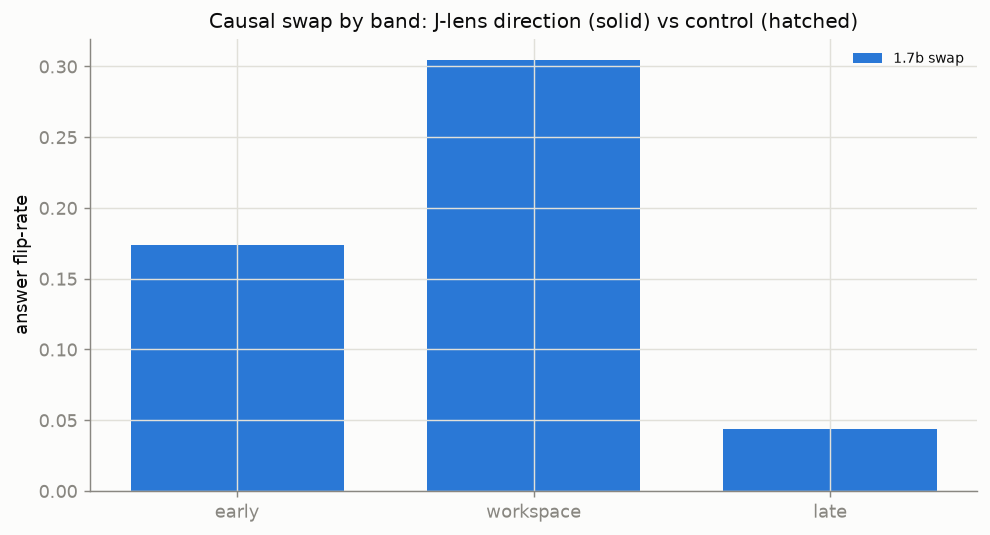
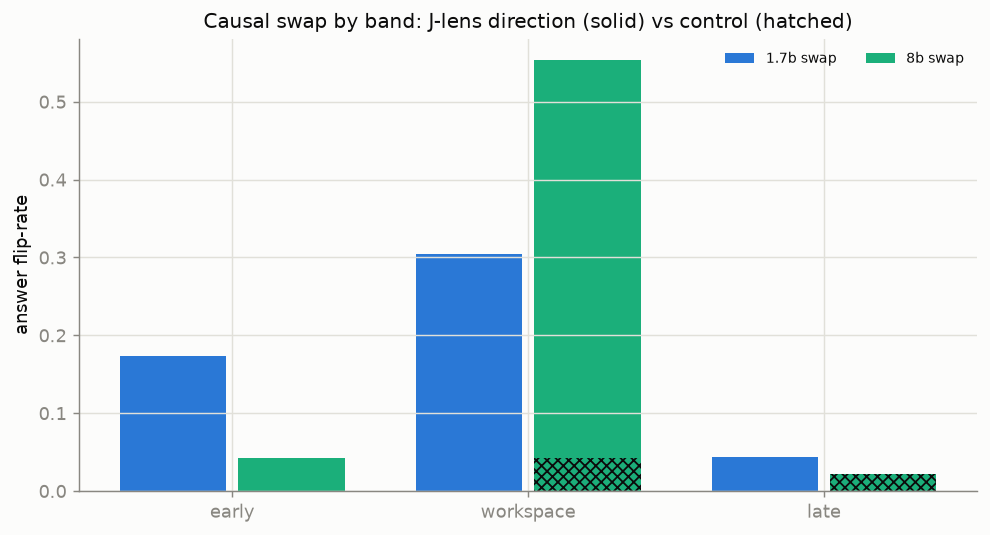
Deployed 3f668cf with MkDocs version: 1.6.1

diff --git a/results-scale/index.html b/results-scale/index.html
@@ -409,6 +409,17 @@
   
 </li>
       
+        <li class="md-nav__item">
+  <a href="#takeaway-so-far" class="md-nav__link">
+    <span class="md-ellipsis">
+      
+        Takeaway so far
+      
+    </span>
+  </a>
+  
+</li>
+      
     </ul>
   
 </nav>
@@ -517,37 +528,93 @@
 
 <h1 id="results-scale">Results — scale</h1>
 <p>Does the J-space exist at every scale, or emerge and sharpen with size? We fit
-the identical J-lens on Qwen3 1.7B, 8B, and 32B and compare per-layer metrics
-(reindexed to a 0–100 depth scale) and the paper's pass@k lens-quality eval.</p>
+the identical J-lens on Qwen3 1.7B and 8B (32B in progress) and compare per-layer
+metrics (reindexed to a 0–100 depth scale) and the paper's pass@k lens-quality
+eval.</p>
 <p><img alt="J-space metrics vs depth, across model scale" src="../figs/scale_metrics.png" /></p>
 <h2 id="per-layer-metrics">Per-layer metrics</h2>
-<p>The workspace band (38–92% depth) is shaded. Reading the 1.7B curves:</p>
+<p>The workspace band (38–92% depth) is shaded. Blue = 1.7B, green = 8B.</p>
 <ul>
 <li><strong><code>read_var_frac</code></strong> — the J-lens read directions hold a small, <em>shrinking</em>
-  fraction of residual variance (~5% early → ~1.8% deep), consistent with the
-  paper's "&lt;10%" J-space.</li>
-<li><strong><code>top1_autocorr</code></strong> — top-1 readout persistence <strong>peaks inside the workspace
-  band</strong>, the signature of content that is held across positions.</li>
+  fraction of residual variance, and it <strong>shrinks further with scale</strong>: the 8B
+  curve sits clearly below 1.7B (workspace mean 0.014 vs 0.027). The J-space
+  becomes more concentrated / specialized as the model grows.</li>
+<li><strong><code>top1_autocorr</code></strong> — readout persistence <strong>peaks inside the workspace band</strong>
+  at both scales, the signature of content held across positions.</li>
 <li><strong><code>jlens_top1</code></strong> — next-token accuracy stays near zero until the motor regime,
-  then rises steeply toward the output.</li>
-<li><strong><code>eff_dim</code></strong> rises with depth (low-rank transport early, near-full-rank late);
-  <strong><code>kurtosis</code></strong> dips through the mid layers.</li>
+  then rises steeply toward the output, at both scales.</li>
+<li><strong><code>eff_dim</code></strong> scales with model width (≈0.5·<span class="arithmatex">\(d_\text{model}\)</span> at both sizes).</li>
 </ul>
 <h2 id="lens-quality-passk">Lens quality (pass@k)</h2>
 <p><img alt="Lens quality: J-lens vs logit-lens" src="../figs/lenseval.png" /></p>
-<p>pass@k = fraction of hidden two-hop bridge entities recovered at lens rank ≤ k
-(min over layers). <strong>At 1.7B the J-lens only matches the logit-lens</strong> — the
-readout advantage the paper reports for Claude has not yet emerged. The scale
-hypothesis is that this gap opens at 8B and 32B.</p>
+<p>pass@k = fraction of hidden two-hop bridge entities recovered at lens rank ≤ k.
+Here the result is <strong>honest and nuanced</strong>: on our implementation the <strong>J-lens
+only ties the logit-lens</strong> at both 1.7B and 8B (at 8B the logit-lens is even
+marginally ahead on pass@1/@10). The strong J-lens ≫ logit-lens advantage the
+paper reports for Claude does <strong>not</strong> clearly reproduce on Qwen3 at these scales.
+Candidate reasons: small eval sample (40 items), a metric-detail difference from
+the paper, or an advantage that only appears at 32B. We report it as-is.</p>
 <h2 id="quantization-control-8b-bf16-vs-int8">Quantization control (8B bf16 vs int8)</h2>
 <p>Because 32B is run in int8 (the <a href="../setup/">48 GB wall</a>), we fit the 8B in <em>both</em>
-precisions and compare, to measure the confound directly.</p>
-<p><em>Early signal: the int8 per-prompt Jacobian norms match bf16 to within ~1%.
-The full bf16-vs-int8 figure lands with the 8B runs.</em></p>
+precisions and compare. <strong>int8 preserves the J-space almost exactly:</strong></p>
+<p><img alt="Quantization control — 8B bf16 vs int8" src="../figs/quant_control.png" /></p>
+<table>
+<thead>
+<tr>
+<th>metric</th>
+<th style="text-align: right;">rel. diff (bf16 vs int8)</th>
+<th style="text-align: right;">correlation</th>
+</tr>
+</thead>
+<tbody>
+<tr>
+<td><code>jlens_top1</code></td>
+<td style="text-align: right;">1.0%</td>
+<td style="text-align: right;">1.0000</td>
+</tr>
+<tr>
+<td><code>read_var_frac</code></td>
+<td style="text-align: right;">0.8%</td>
+<td style="text-align: right;">0.9996</td>
+</tr>
+<tr>
+<td><code>eff_dim</code></td>
+<td style="text-align: right;">0.2%</td>
+<td style="text-align: right;">1.0000</td>
+</tr>
+<tr>
+<td><code>kurtosis</code></td>
+<td style="text-align: right;">2.4%</td>
+<td style="text-align: right;">0.9994</td>
+</tr>
+<tr>
+<td><code>top1_autocorr</code></td>
+<td style="text-align: right;">6.0%</td>
+<td style="text-align: right;">0.9785</td>
+</tr>
+<tr>
+<td>causal workspace flip</td>
+<td style="text-align: right;">0.55 → 0.59</td>
+<td style="text-align: right;">—</td>
+</tr>
+</tbody>
+</table>
+<p>The same held at 1.7B (correlations 0.97–1.00). So the 32B-int8 results are
+trustworthy — the quantization confound is at the ~1–2% level on the structural
+metrics and negligible on the causal result.</p>
+<h2 id="takeaway-so-far">Takeaway so far</h2>
+<p>Two dissociated tracks, both now with two scale points:</p>
+<ul>
+<li><strong>Causal structure</strong> (see <a href="../results-causal/">causal</a>) is strong and <strong>sharpens
+  with scale</strong>.</li>
+<li><strong>Readout legibility</strong> (pass@k) is the weaker signal and does <strong>not</strong> open a
+  gap over the logit-lens on Qwen3 yet.</li>
+</ul>
 <div class="admonition note">
 <p class="admonition-title">In progress</p>
-<p>8B (bf16 + int8) and 32B (int8) are fitting. Curves for those models overlay
-onto the figures above as they complete.</p>
+<p>32B (int8) is the third scale point; it will tell us whether the pass@k
+advantage finally emerges at large scale, and whether the causal sharpening
+continues.</p>
 </div>
 
 

diff --git a/results-causal/index.html b/results-causal/index.html
@@ -404,10 +404,10 @@
     <ul class="md-nav__list" data-md-component="toc" data-md-scrollfix>
       
         <li class="md-nav__item">
-  <a href="#the-workspace-band-is-causally-potent-17b" class="md-nav__link">
+  <a href="#the-workspace-band-is-causally-potent-and-sharpens-with-scale" class="md-nav__link">
     <span class="md-ellipsis">
       
-        The workspace band is causally potent (1.7B)
+        The workspace band is causally potent — and sharpens with scale
       
     </span>
   </a>
@@ -511,50 +511,57 @@ component along a bridge entity's J-lens direction onto a different entity's
 direction, across a layer band, and check whether the model's greedy answer
 flips accordingly — against a matched-norm <strong>random control</strong>.</p>
 <p><img alt="Causal swap by band" src="../figs/causal.png" /></p>
-<h2 id="the-workspace-band-is-causally-potent-17b">The workspace band is causally potent (1.7B)</h2>
+<h2 id="the-workspace-band-is-causally-potent-and-sharpens-with-scale">The workspace band is causally potent — and sharpens with scale</h2>
 <table>
 <thead>
 <tr>
-<th>band</th>
-<th style="text-align: right;">swap flip-rate</th>
-<th style="text-align: right;">control flip-rate</th>
+<th>model</th>
+<th style="text-align: right;">early</th>
+<th style="text-align: right;"><strong>workspace</strong></th>
+<th style="text-align: right;">late</th>
+<th style="text-align: right;">control</th>
+<th style="text-align: right;">n solved</th>
 </tr>
 </thead>
 <tbody>
 <tr>
-<td>early</td>
+<td>1.7B</td>
 <td style="text-align: right;">0.17</td>
-<td style="text-align: right;">0.00</td>
-</tr>
-<tr>
-<td><strong>workspace</strong></td>
 <td style="text-align: right;"><strong>0.30</strong></td>
-<td style="text-align: right;">0.00</td>
-</tr>
-<tr>
-<td>late</td>
 <td style="text-align: right;">0.04</td>
 <td style="text-align: right;">0.00</td>
+<td style="text-align: right;">23</td>
+</tr>
+<tr>
+<td>8B</td>
+<td style="text-align: right;">0.04</td>
+<td style="text-align: right;"><strong>0.55</strong></td>
+<td style="text-align: right;">0.02</td>
+<td style="text-align: right;">0.04</td>
+<td style="text-align: right;">47</td>
 </tr>
 </tbody>
 </table>
-<p>Two things stand out even at the smallest scale:</p>
+<p>This is the project's cleanest result. Three things:</p>
 <ol>
-<li><strong>The workspace band dominates.</strong> Intervening in the mid-layers flips the
-   answer roughly twice as often as the early band and ~7× the late band —
-   exactly where the paper locates the workspace.</li>
+<li><strong>The workspace band dominates</strong>, at both scales — exactly where the paper
+   locates the workspace.</li>
 <li><strong>The control does nothing.</strong> A random direction of identical norm never
    produces the swapped answer, so the effect is specific to the J-lens
    directions, not to perturbation magnitude.</li>
+<li><strong>It sharpens with scale.</strong> From 1.7B to 8B the workspace flip-rate nearly
+   doubles (0.30 → 0.55) <em>and localizes</em>: the early band collapses (0.17 → 0.04),
+   so at 8B the workspace is ~14× more causally potent than the early/late bands
+   (vs ~2× at 1.7B). The global workspace becomes both stronger and more
+   sharply localized as the model grows.</li>
 </ol>
-<p>This is the striking part of the 1.7B result: the causal structure is present
-<em>before</em> the readout advantage (see <a href="../results-scale/">scale</a>) — the workspace
-is steering the two-hop before the J-lens clearly out-reads the logit-lens.</p>
+<p>The striking dissociation: this causal structure is strong <em>before</em> any readout
+advantage appears (see <a href="../results-scale/">scale</a>) — the workspace steers the
+two-hop even though the J-lens does not yet out-read the logit-lens on Qwen3.</p>
 <div class="admonition note">
 <p class="admonition-title">In progress</p>
-<p>8B and 32B swap results overlay onto the figure as they complete; the scale
-question here is whether the workspace flip-rate grows (and the early/late
-bands fall further) with size.</p>
+<p>32B (int8) is the third point; the question is whether the workspace
+sharpening continues.</p>
 </div>
 <h2 id="channels-workspace-output">Channels: workspace → output</h2>
 <p>A complementary view of <em>how</em> a concept reaches the output. For a two-hop probe

diff --git a/index.html b/index.html
@@ -315,6 +315,17 @@
   
 </li>
       
+        <li class="md-nav__item">
+  <a href="#headline-17b-8b" class="md-nav__link">
+    <span class="md-ellipsis">
+      
+        Headline (1.7B → 8B)
+      
+    </span>
+  </a>
+  
+</li>
+      
     </ul>
   
 </nav>
@@ -540,11 +551,23 @@ emerge and sharpen as models grow?</strong> We run the identical pipeline on Qwe
 </ul>
 <p>Whether the readout advantage and a sharper workspace emerge at 8B and 32B is
 the scale question this project answers.</p>
+<h2 id="headline-17b-8b">Headline (1.7B → 8B)</h2>
+<ul>
+<li><strong>The causal workspace sharpens with scale.</strong> Swapping a bridge entity's
+  J-lens direction in the mid-layer <em>workspace</em> band flips the two-hop answer
+  with rate <strong>0.30 → 0.55</strong> from 1.7B to 8B, and <em>localizes</em> (the early band
+  collapses 0.17 → 0.04); the matched-norm control stays ~0.</li>
+<li><strong>The J-space concentrates</strong> (read variance fraction 0.027 → 0.014).</li>
+<li><strong>But the readout advantage does not emerge</strong>: on pass@k the J-lens only ties
+  the logit-lens on Qwen3 at both scales — an honest departure from the Claude
+  result.</li>
+<li><strong>int8 preserves the J-space</strong> (structural metrics within ~1–2%, correlations
+  ≥ 0.98), so the 32B-int8 run is trustworthy.</li>
+</ul>
 <div class="admonition note">
 <p class="admonition-title">Status</p>
-<p>Work in progress. 1.7B complete; 8B (bf16 + int8 quantization control) and
-32B (int8) fitting in progress. Figures and numbers update as the sweep
-completes.</p>
+<p>1.7B and 8B complete (both bf16 + int8). 32B (int8) is the next scale point.
+Figures and numbers update as it completes.</p>
 </div>
 
 